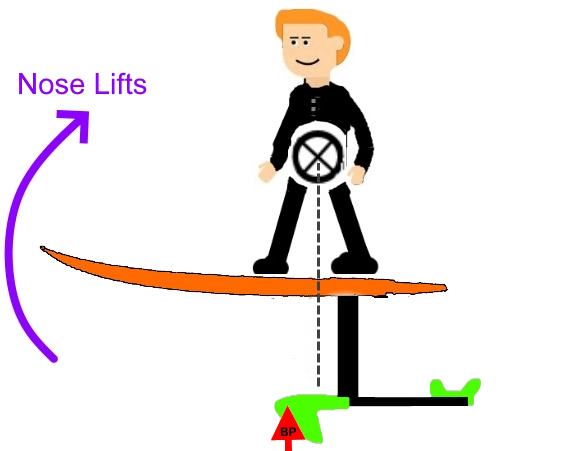
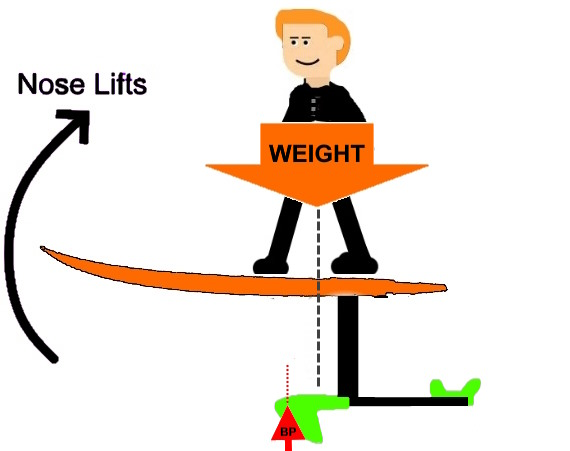
p

Changed region(s): [[0.3579, 0.2483, 0.7456, 0.4656], [0.0, 0.1552, 0.2684, 0.8071], [0.4772, 0.8071, 0.507, 0.9002]]

diff --git a/frontwingsandstabs.html b/frontwingsandstabs.html
@@ -97,7 +97,7 @@
 
         
         <div class = "diagrams">
-          <img src = "drag_rotation.jpg" width="400px" height="300px" />
+          <img src = "drag_rotation.jpg" width="300px" height="220px" />
           
         </div>
           
@@ -130,7 +130,20 @@
             
         
             
-            <p>It is sometimes called the "centre of lift" of the foil, as it can be thought of as the position on the board where the lift is acting through (and so where the rider must stand),</p>
+            <p>It is sometimes called the "centre of lift" of the foil, as it can be thought of as the position on the board where the lift is acting through (and so where the rider must stand)</p>
+            <p>If the rider is not in the correct position:</p>
+
+          <div class = "sections1">
+            <div class = "diagrams">
+                <img src = "man_board1.jpg" width="200px" height="150px" />
+                <p>If the balance point is forward of the rider, the nose lifts</p>
+              </div>
+            <div class = "diagrams">
+                <img src = "man_board2.jpg" width="200px" height="150px" />
+                <p>If the balance point is behind the rider, the nose drops</p>
+            </div>
+
+          </div>
             <p>Importantly there are various means to change the position of the <i>Balance Point</i> so that the rider can stand in a comfortable position, more in <a href="foilsetup.html" >Foil Setup</a></p>
         
         

diff --git a/whatisahyrdofoil.html b/whatisahyrdofoil.html
@@ -132,11 +132,11 @@
 
         <div id = "slowfast">
           <div class = "diagrams">
-                <img src = "Man_slow.png" height="150px" width="180px"/>
+                <img src = "Man_slow.png" height="120px" width="152px"/>
                 <p>Slow - high <i>Angle of Attack</i></p>
           </div>
           <div class = "diagrams">
-            <img src = "Man_fast.png" height="150px" width="180px"/>
+            <img src = "Man_fast.png" height="120px" width="152px"/>
             <p>Fast - low <i>Angle of Attack</i></p>
           </div>
         </div>
